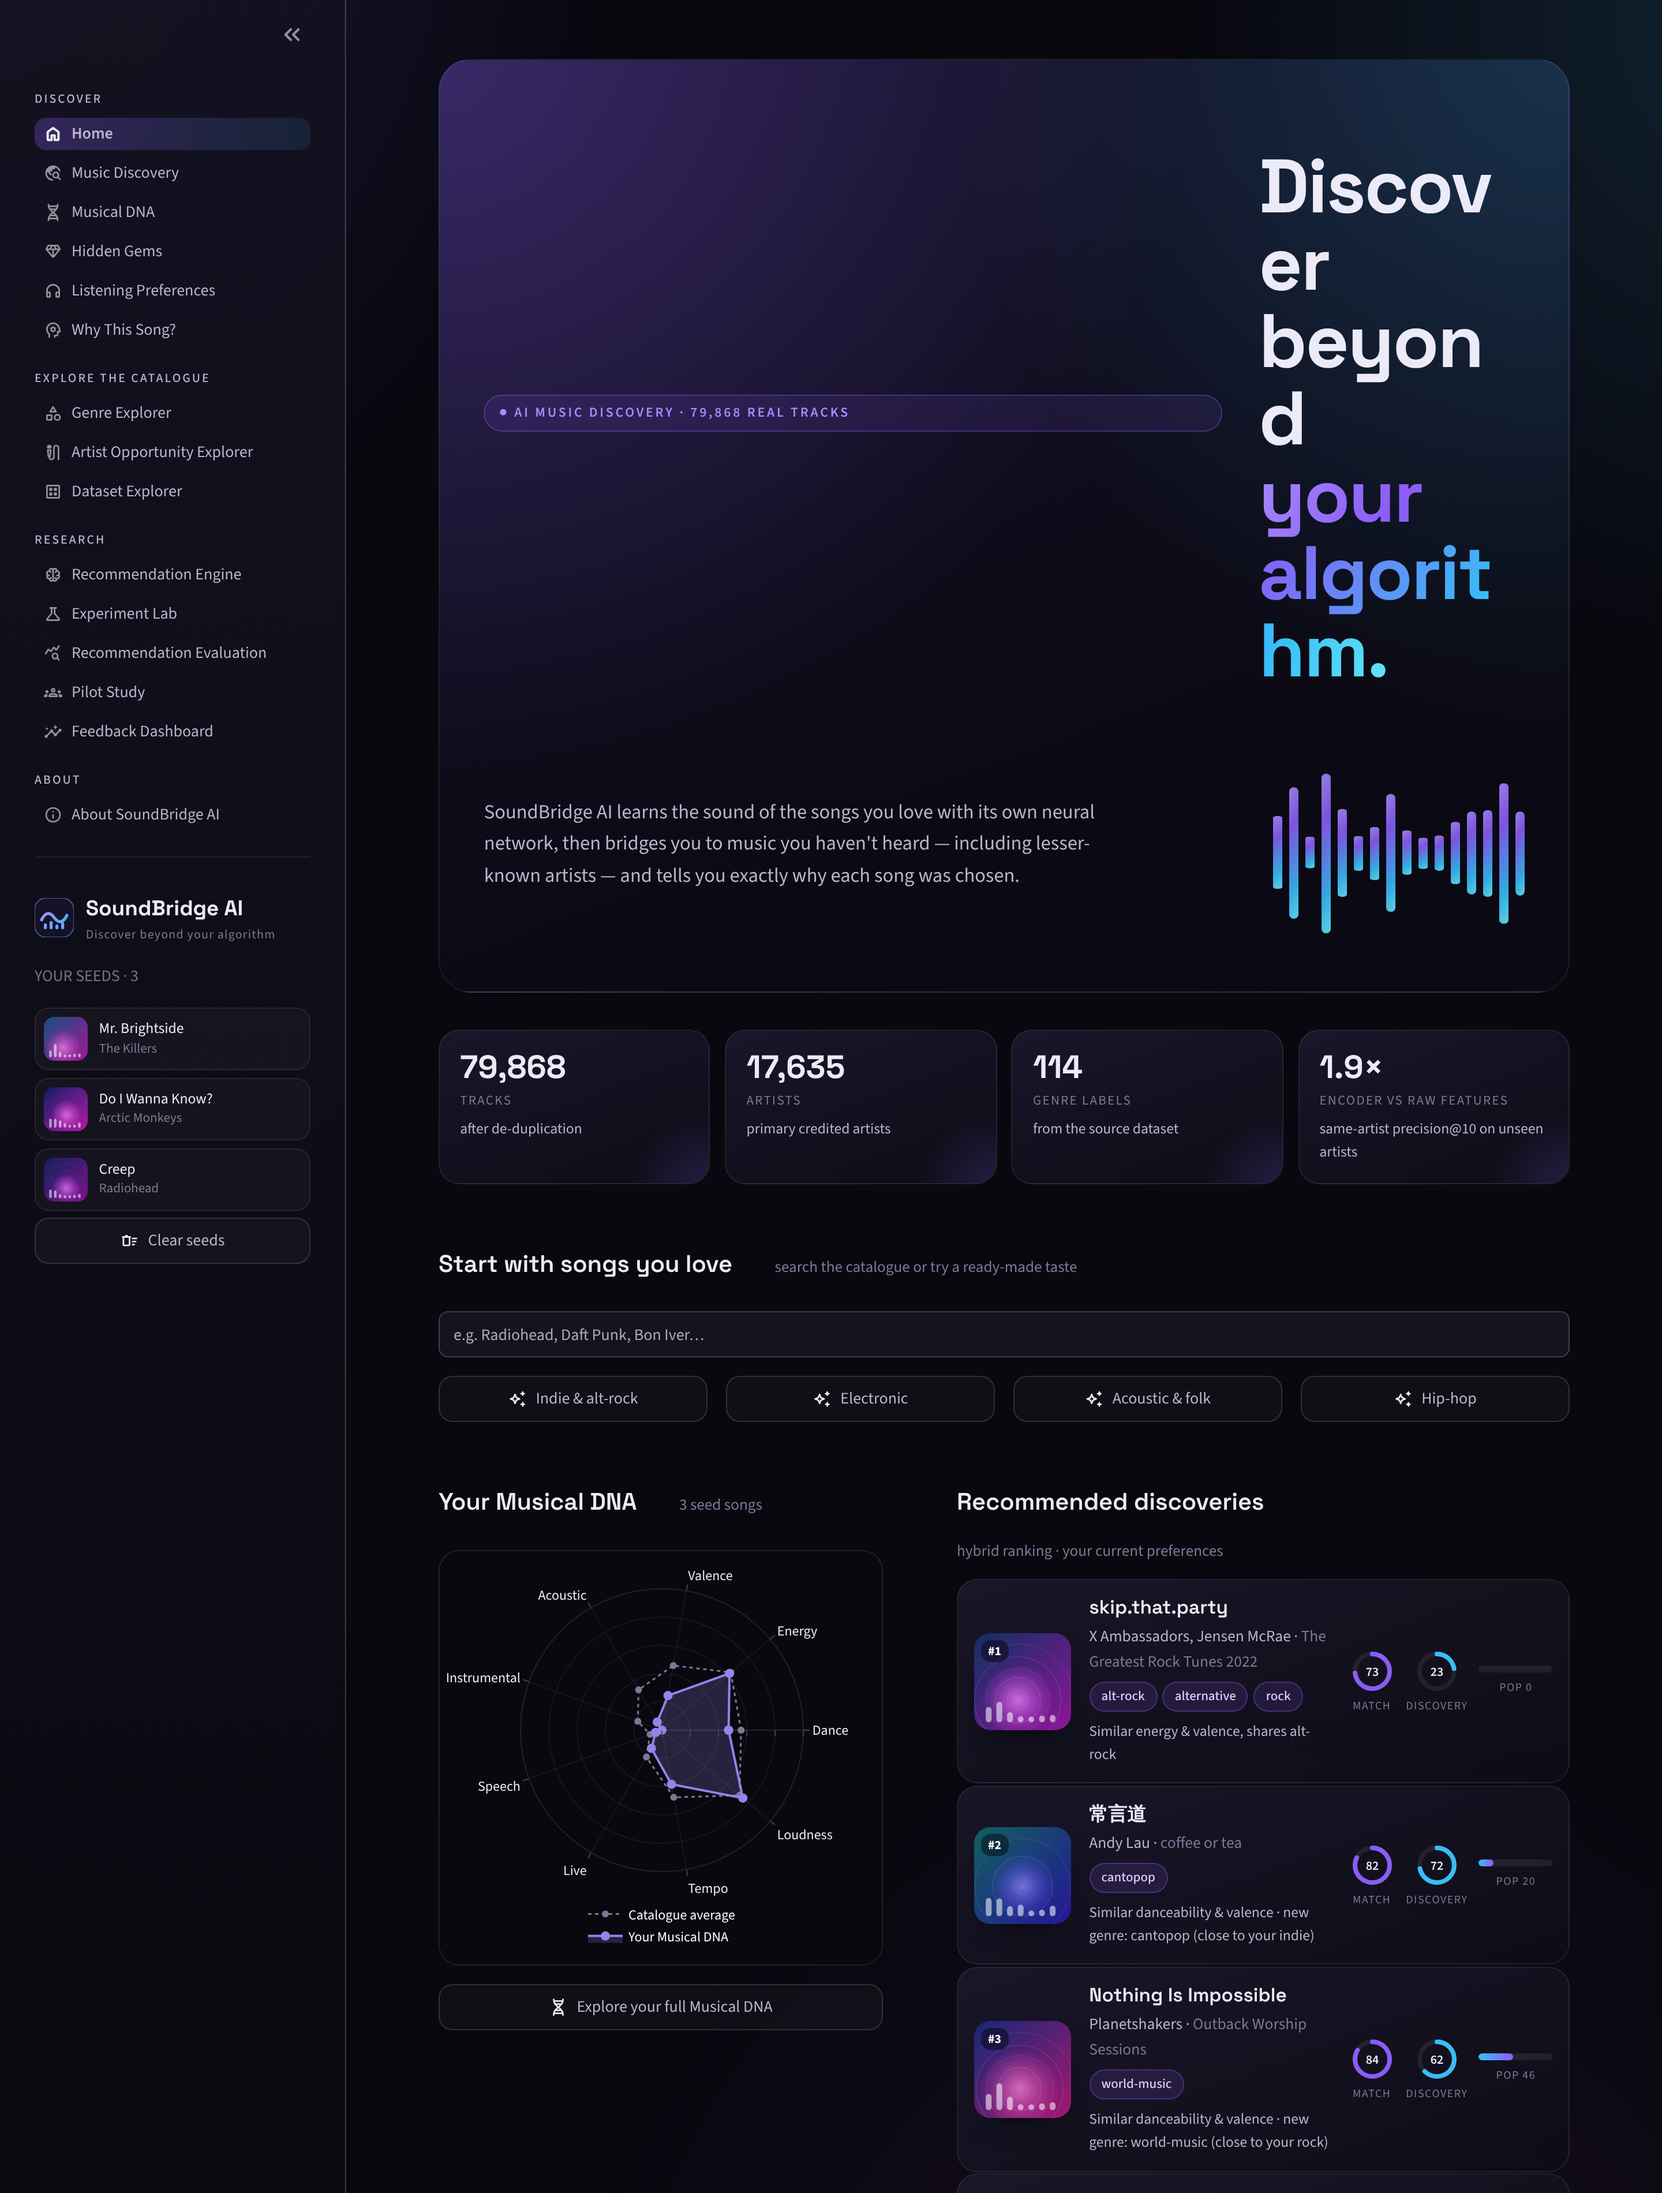
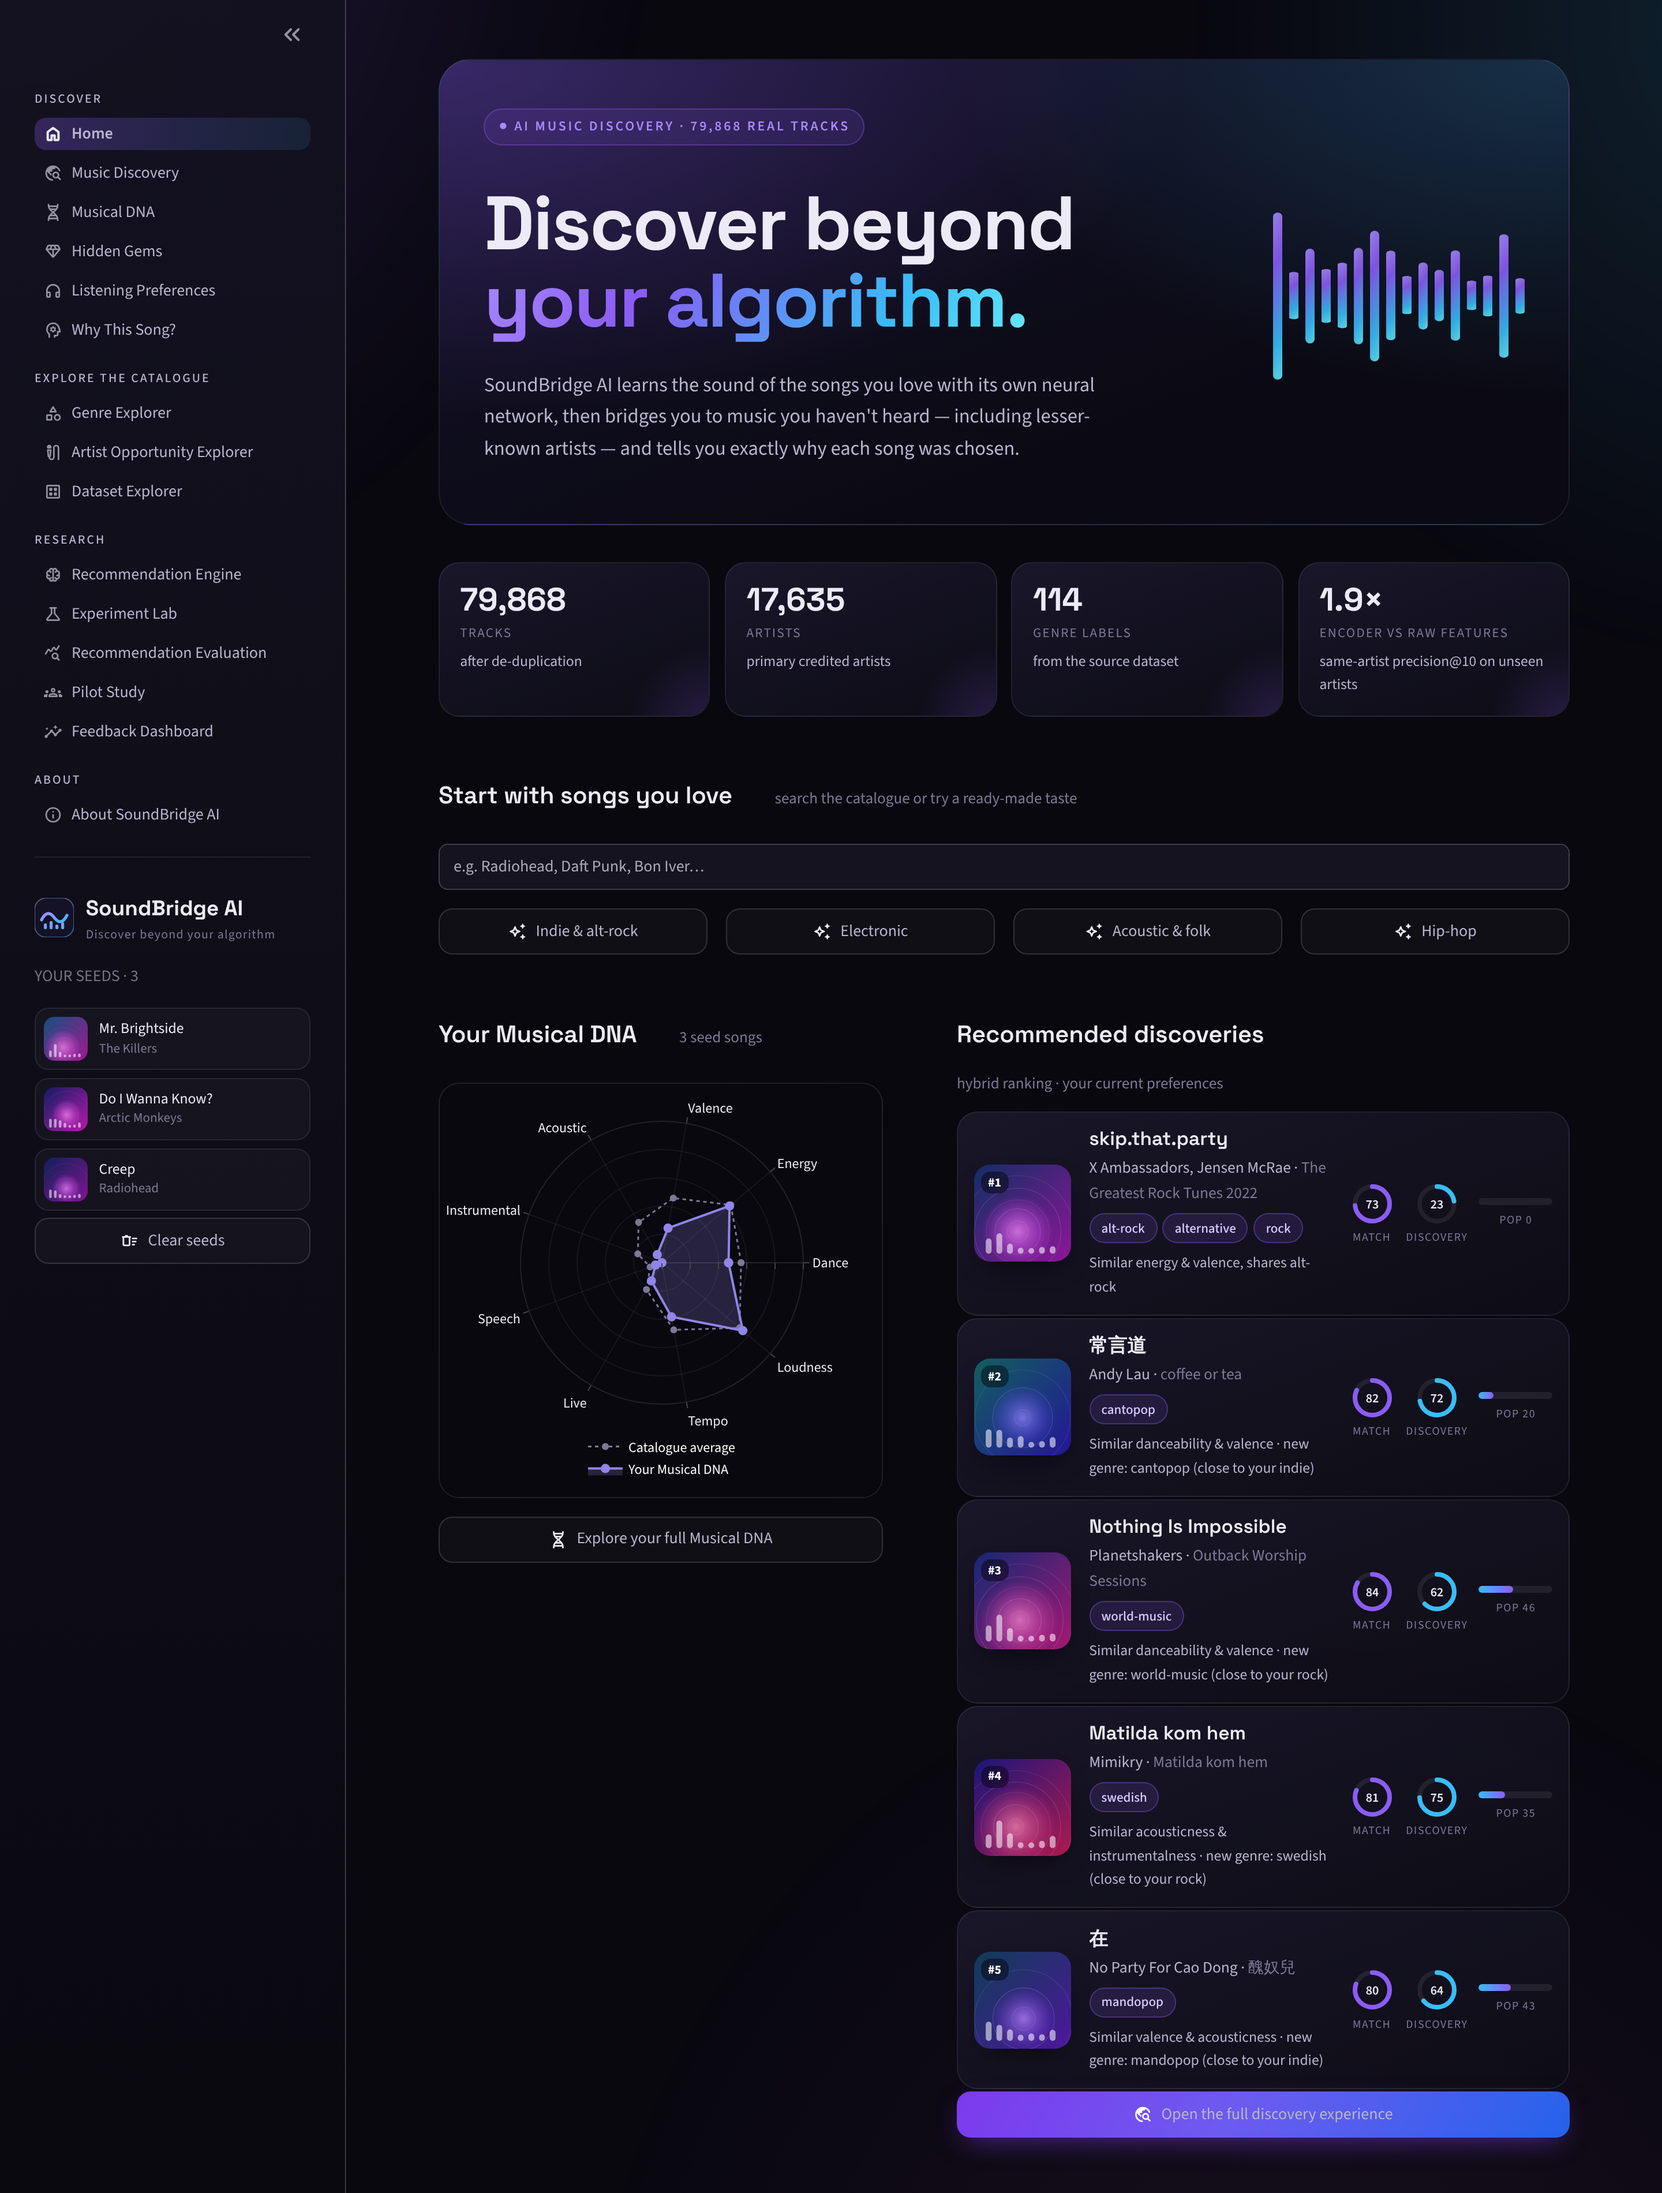
Fix the Home hero layout, a flaky CI test and the README page count
- views/0_Home.py: the .sb-hero grid has two columns (text, equaliser), but Home
  passed the eyebrow, heading, lead and equaliser as four separate children. On
  screens wider than 1000 px the heading was squeezed into the 230 px column and
  broke mid-word ("Discov/er", "algorit/hm"). The text is now wrapped in one
  block, as the first-run setup hero already does.
- outputs/figures/app_home.png: re-captured; the old README screenshot showed the
  broken hero.
- tests/test_model.py: test_committed_confidence_report_matches_evaluation failed
  on CI run 45550234124 (attempt 1) because the rebuilt evaluation flipped one of
  5,000 held-out queries (hit@10 0.4336 vs 0.4338). The tolerance now allows at
  most two flipped queries (2.5 / n_queries) instead of 1e-4.
- README.md: the app has 15 pages (views/ and the navigation), not 14.

Claude-Session: https://claude.ai/code/session_013tpD16K5jFZFsLFUPWL8Nk

diff --git a/tests/test_model.py b/tests/test_model.py
@@ -126,10 +126,13 @@ def test_committed_confidence_report_matches_evaluation():
     ev = json.loads((reports / "model_evaluation.json").read_text())["retrieval_held_out_artists"]
     conf = json.loads((reports / "evaluation_confidence.json").read_text())["held_out_retrieval"]
     names = {"encoder": "SoundBridge Encoder (learned, 32-d)", "raw": "Raw audio features (z-score, 9-d)"}
+    # CI rebuilds model_evaluation.json; on some CPUs a near-tie in the neighbour search flips a single query
+    # (hit@10 moves by 1/n_queries = 0.0002), so allow up to two flipped queries but nothing more.
+    tol = 2.5 / ev[names["encoder"]]["n_queries"]
     for key, name in names.items():
         for metric, field in (("precision", "artist_precision@10"), ("hit", "artist_hit@10"),
                               ("genre", "genre_agreement@10")):
             row = conf["metrics"][f"{key}_{metric}"]
-            assert row["value"] == pytest.approx(ev[name][field], abs=1e-4)
+            assert row["value"] == pytest.approx(ev[name][field], abs=tol)
             assert row["ci95"][0] <= row["value"] <= row["ci95"][1]
     assert conf["n_queries"] == ev[names["encoder"]]["n_queries"]

diff --git a/views/0_Home.py b/views/0_Home.py
@@ -13,12 +13,12 @@ enc = ret.get("SoundBridge Encoder (learned, 32-d)", {})
 raw = ret.get("Raw audio features (z-score, 9-d)", {})
 
 st.markdown(
-    f"""<div class="sb-hero">
+    f"""<div class="sb-hero"><div>
   <span class="eyebrow">● AI music discovery · {len(engine):,} real tracks</span>
   <h1>Discover beyond<br><span class="sb-grad">your algorithm.</span></h1>
   <p class="lead">SoundBridge AI learns the sound of the songs you love with its own neural network, then bridges you
   to music you haven't heard — including lesser-known artists — and tells you exactly why each song was chosen.</p>
-  {ui.hero_eq()}
+  </div>{ui.hero_eq()}
 </div>""",
     unsafe_allow_html=True,
 )

diff --git a/README.md b/README.md
@@ -10,7 +10,7 @@ and visibility for lesser-known artists, and it measures the answer instead of a
 * Real data: 114,000 rows from the public Spotify Tracks Dataset, cleaned to 79,868 unique songs.
 * A neural network trained from scratch on CPU (about 2.5 minutes), evaluated on artists it never saw.
 * Seven ranking strategies, compared in a reproducible Experiment Lab.
-* A 14-page Streamlit app with a custom dark interface.
+* A 15-page Streamlit app with a custom dark interface.
 * 124 automated tests (pytest).
 
 > SoundBridge AI is independent and not affiliated with Spotify. It does not reproduce any proprietary
@@ -128,7 +128,7 @@ Streamlit · Plotly · Matplotlib · Seaborn · Pillow · Joblib · Pytest. Ever
 ## 6. Architecture
 ```
 app.py                      Streamlit router (st.navigation) and first-run setup
-views/                      14 pages (see section 15)
+views/                      15 pages (see section 15)
 src/
   config.py                 paths, feature definitions, config.yaml loader
   data_loader.py            schema detection and mapping, checksum-verified download
